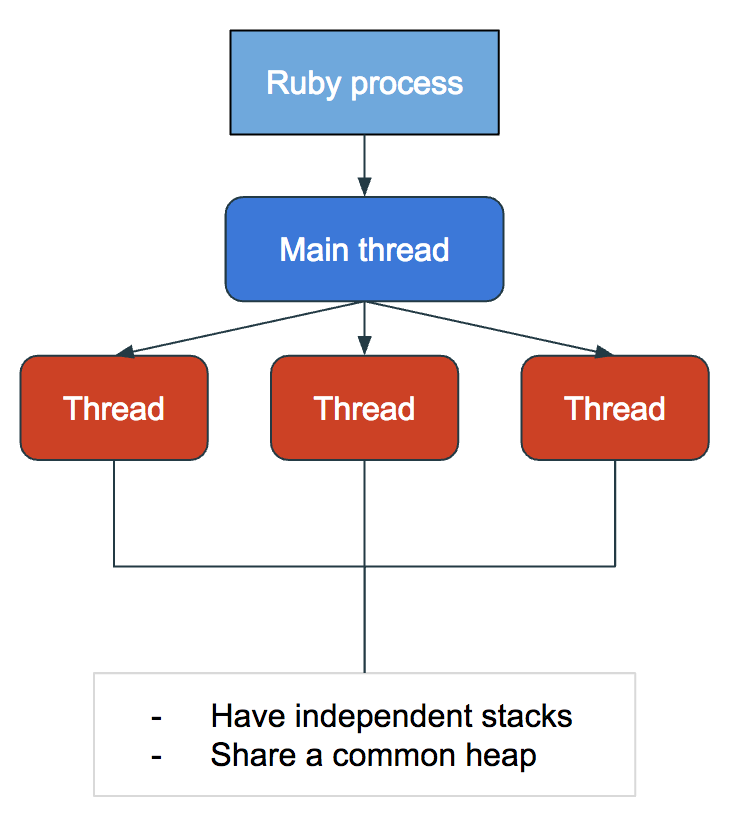
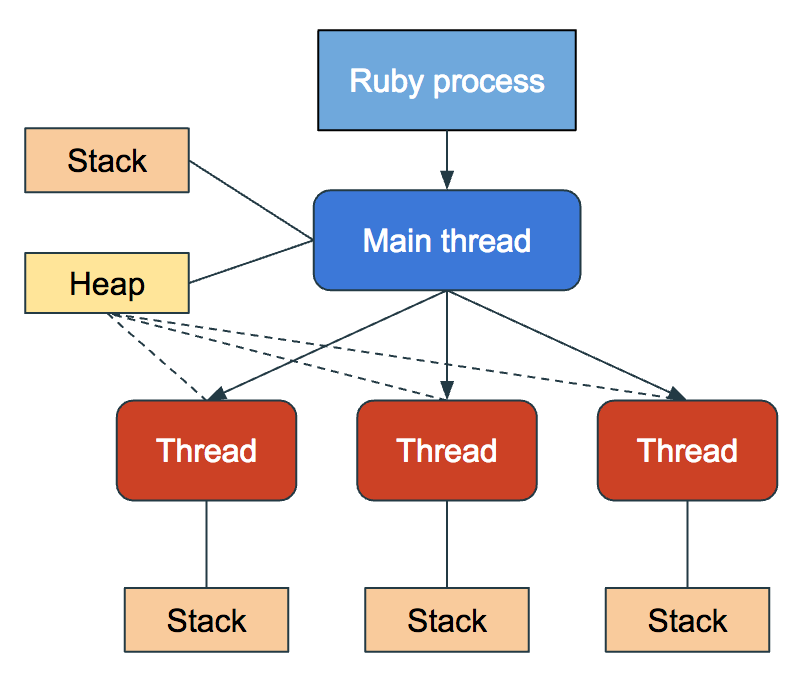
polish concurrency in workerholic + thread and memory  + image processing calculations sections

diff --git a/toc.md b/toc.md
@@ -228,7 +228,7 @@ This insight raises two issues:
 
 2. Quickly hitting storage limit:
   - In the context of Workerholic a job takes about 26 bytes on average. We calculated this number by pushing 100,000 jobs into a job queue, getting the total size of the list and dividing it by 100,000. ![serialized_job_length_redis](/images/serialized_job_length_redis.png)
-  - After 7 days, we'd have a backlog of `8.64M * 7 - (1.73M * 7) = 48.4M` email sending jobs that still need to be processed.
+  - After 7 days, we'd have a backlog of `8.64M * 7 - (8.64M / 5) * 7 = 48.4M` email sending jobs that still need to be processed.
   - These jobs would need `48.4M * 26B = 1.17GB` of memory in order to be stored in Redis.
 
 An additional backlog of 96 hours of email sending jobs everyday, along with an additional 1.17GB of memory occupied by this same backlog of email sending jobs every week make for a very inefficient background job system.
@@ -270,9 +270,12 @@ As we can see from the results here: for non-blocking and CPU-blocking jobs, mul
 In the next section, we will take a look at how concurrency is implemented in Workerholic.
 
 ##### Concurrency in Workerholic
-![efficiency_concurrency_workerholic](/images/efficiency_concurrency_workerholic.png){:width="700"}
 
 In the context of Workerholic, we introduced concurrency in order to improve performance by having our workers poll and perform the jobs from within a thread. This way, as shown earlier, if jobs are IO bound we can make use of concurrency in order to maximize the dequeuing and processing throughput and bring that enqueueing:processing ratio down.
+
+![efficiency_concurrency_workerholic](/images/efficiency_concurrency_workerholic.png){:width="700"}
+
+In Ruby, we pass a block to `Thread.new` in which we poll from from Redis and process the serialized job, if any:
 
 ```ruby
 module Workerholic
@@ -296,21 +299,29 @@ module Workerholic
 end
 ```
 
-We have our workers `poll` Redis. If `poll` returns something, we process that job using `JobProcessor`.
+In the next section we will look at how creating new Threads impacts the consumption of the available resources.
 
 ##### Threads and Memory Consumption
+
+A Ruby Processes can spawn multiple threads. The memory model for a thread is as follows:
+
 ![efficiency_concurrency_threads_memory](/images/efficiency_concurrency_threads_memory.png){:width="450"}
 
-Processes have threads, and these threads can spawn more threads. These threads have their independent stacks, but they share a common heap belonging to the process that the threads belong to. For our email-sending job example above, we can spawn as many threads as we'd like to bring down our enqueuing:processing ratio. But what happens to our memory footprint?
+Each thread has an independent stack and the heap is shared between the main thread and all child-threads.
+
+For our email-sending job example above, we can spawn as many threads as we'd like to increase our processing throughput. But what happens to our memory footprint?
 
 ![memory_usage_threads](/images/memory_usage_threads.png){:width="600"}
 
-Not a problem! As you can see in the graph above, having 24 more threads do not increase your memory consumption significantly. That is because threads are cheap, and most of the memory footprint comes from the heap of the process.
+As shown in the above bar chart, spawning 24 additional threads has a relativelty low impact on memory consumption. That is because threads are cheap, and most of the memory footprint comes from the heap, which is shared among all the 25 threads.
+
+Now that we understand how threads can enable concurrency and help us solve the problem at hand, it is also important to understand how they can hurt us.
 
 ##### Concurrency Issues & Thread-Safety
-While spawning more threads is cheap and significantly increases processing throughput, multi-threading introduces a new concern called *thread-safety*. When code is "thread-safe", it means that the state of the resources behave correctly when multiple threads are using and modifying those resources.
 
-In MRI, core methods are thread-safe, so we don't need to worry about them. However, user-spaced code is not thread-safe, because it may introduce race conditions. Race conditions occur when two or more threads are competing to modify the same resource. This happens because the atomicity of the operation is not guaranteed and the OS scheduler can interrupt the execution of code at any time and schedule another thread. Let's take a look at the `PaymentJob` class:
+While spawning more threads is cheap and significantly increases processing throughput, multi-threading introduces a new concern called **thread-safety**. When code is *thread-safe*, it means that the state of the resources behave correctly when multiple threads are using and modifying those resources.
+
+In MRI, core methods are thread-safe, so we don't need to worry about them. However, user-spaced code is not thread-safe, because it may introduce **race conditions**. Race conditions occur when two or more threads are competing to modify the same resource. This happens because the atomicity of the operation is not guaranteed and the OS scheduler can interrupt the execution of code at any time and schedule another thread. Let's take a look at the following example:
 
 ```ruby
 $balance = 0
@@ -335,7 +346,7 @@ end.each(&:join)
 puts "Final balance: #{$balance}"
 ```
 
-Above we have a global variable `$balance` and a `PaymentJob` class with a instance method `perform` which modifies `$balance`. Then we create 10 threads, and have each of those threads create a new instance of `PaymentJob` and calls `perform` on the instance, each instance trying to increment `$balance` to 1,000,000. At the end, we should end up with 10,000,000, right?
+Above we have a global variable `$balance` and a `PaymentJob` class with an instance method `perform` which mutates `$balance` by incrementing it by one, 1,000,000 times. Then we create 10 threads, and have each of those threads create a new instance of `PaymentJob` and calls `perform` on the instance. At the end, we should end up with 10,000,000. Let's run this program and see what we get:
 
 ```
     $ ruby concurrency_issues_example.rb
@@ -349,8 +360,9 @@ Above we have a global variable `$balance` and a `PaymentJob` class with a insta
 
 As you can see here, that is definitely not the case. Why?
 
-Because the code above is not thread-safe. As mentioned earlier, when we have multiple threads trying to access and modify the same resource, `$balance` in this case, we have a race condition. A thread can enter the `perform` method which first sets `current_balance = $balance`, and then the OS scheduler can pause that thread and run another thread to do the same thing. So now you have two threads (and potentially more) starting its `current_balance` from 0 rather than a stacking multiple of 1,000,000. In the end, your final balance can be any multiple of 1,000,000 between 1,000,000 and 10,000,000. In other words, you cannot guarantee that the code will work as expected, and results may be different each time you run this program. So how do we prevent this?
+Because the code above is not thread-safe. As mentioned earlier, when we have multiple threads trying to access and modify the same resource, `$balance` in this case, we have a race condition. A thread can enter the `perform` method which first sets `current_balance = $balance`, and then the OS scheduler can pause that thread and run another thread to do the same thing. So now you have two threads (and potentially more) starting its `current_balance` from 0 rather than a stacking multiple of 1,000,000. In the end, your final balance can be any multiple of 1,000,000 between 1,000,000 and 10,000,000. In other words, you cannot guarantee that the code will work as expected, and results may be different each time you run this program.
 
+Let's look at another example in order to understand how tricky concurrenc issues can be:
 
 ```ruby
 $balance = 0
@@ -375,6 +387,8 @@ end.each(&:join)
 puts "Final balance: #{$balance}"
 ```
 
+The above example should produce the same result as the previous one. The difference here is that instead of having `perform` increment `new_balance` by one, 1,000,000 times, we increment it by one, one time, and call `perform` 1,000,000 times.
+
 ```
     $ ruby concurrency_issues_example.rb
     $ Final balance: 10000000
@@ -385,13 +399,34 @@ puts "Final balance: #{$balance}"
 
 ```
 
-{Insert text here later}
+As shown above it seems like everything works fine in this context. Why?
+
+Because the perform method is so cheap in terms of computational resources that the operation performed in it becomes atomic and thus doesn't introduce a concurrency issue. The problem with this example is that the atomicity of the operations executed in the `perform` method is absolutely not guaranteed and we cannot rely on the fact that it *should* work.
+
+These examples are used to demonstrate that in the context of Workerholic your jobs should be thread-safe. If you cannot guarantee that your jobs are thread-safe then you should only use 1 worker, so you only have one thread and spin up mutliple instances of workerholic if more processing throughput is needed. This will introduce parallelism, which is another way of maximizing the processing throughput.
 
 #### Parallelism
-Concurrency alone is good enough for IO-blocking jobs, but as you saw in a previous chart, it does nothing for CPU bound blocking jobs. Why? And what do we do?
+
+Concurrency alone is good enough for IO-blocking jobs, but as you saw in a previous chart, it does nothing for CPU bound blocking jobs. Why? And what can we do to maximize processing throughput for CPU bound jobs?
 
 ##### Image Processing Jobs Calculations
-A common CPU-blocking job is image processing. So now let's say an image processing job takes 4 seconds on average, and recall from earlier, we said that we have a large Rails application with 1000 QPS and 1% of that is image processing, which means we have 864,000 image processing jobs per day, multiply that by 4s and you have 960 hrs worth of processing lined up in a period of 24 hrs, giving us a 1:40 enqueue:processing ratio. Similar to the email example, as the this gets backlogged, we will start to run out of memory. So same challenge: evening out enqueuing and processing throughput, but our previous solution won't work. Why?
+
+A common CPU-blocking job is image processing.
+- In the context of our scenario let's say an image processing job takes 4 seconds on average.
+- Recall from earlier, we said that we have a large Rails application with 1000 QPS and 1% of that is image processing, which means we have 864,000 image processing jobs per day
+- Multiply 864,000 by 4s and you have 960 hrs worth of processing lined up in a period of 24 hrs, giving us a 1:40 enqueue:processing ratio.
+
+Similarly to the email example, this insight raises two issues:
+1. Increased latency: for every day that passes there are 39 more days of image processing that need to be performed. This means that any job enqueued after the first 24 hours won't be executed until the next 936 hours *(960 - 24)* have passed, since it is the time it would take to perform all the jobs that were enqueued before.
+
+2. Quickly hitting storage limit:
+  - In the context of Workerholic a job takes about 26 bytes on average.
+  - After 7 days, we'd have a backlog of `864,000 * 7 - (864,000 / 40) * 7 = 5.9` image processing jobs that still need to be processed.
+  - These jobs would need `5.9M * 26B = 146.2MB` of memory in order to be stored in Redis.
+
+An additional backlog of 936 hours of image processing jobs everyday, along with an additional 146.2MB of memory occupied by this same backlog of image processing jobs every week make for a very inefficient background job system.
+
+The challenge for us here is to even the enqueuing throughput and the dequeuing throughput. We should not slow down the enqueuing side or else our web application will become unresponsive, waiting for jobs to be enqueued before moving on, so let's focus on increasing the processing throughput.
 
 ##### Parallelism & Processes
 ![efficiency_parallelism_processes](/images/efficiency_parallelism_processes.png){:width="300"}
